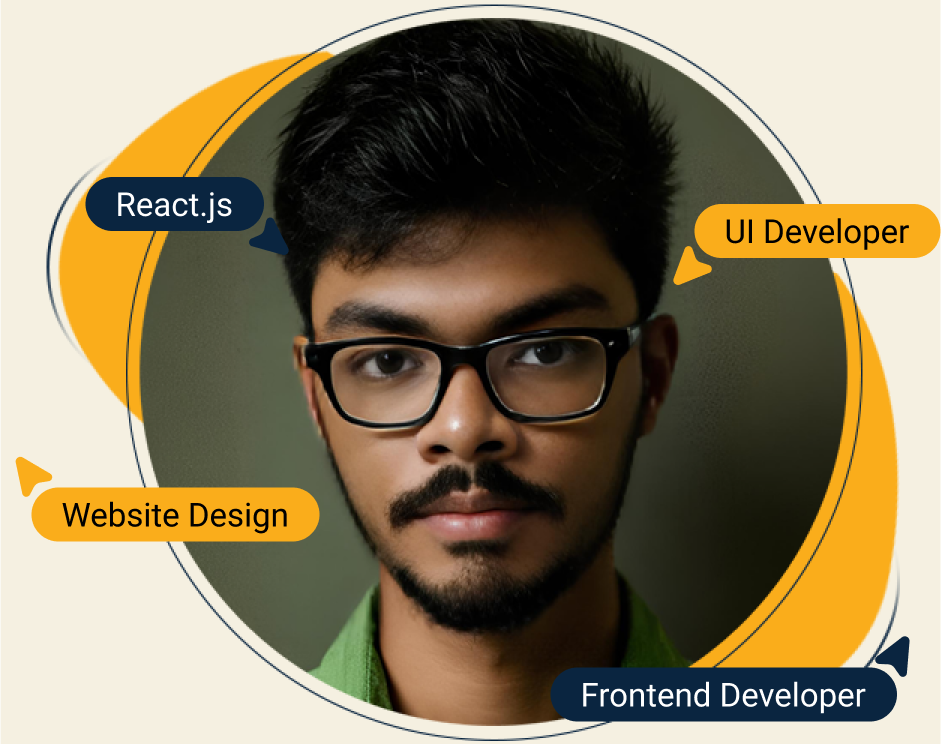
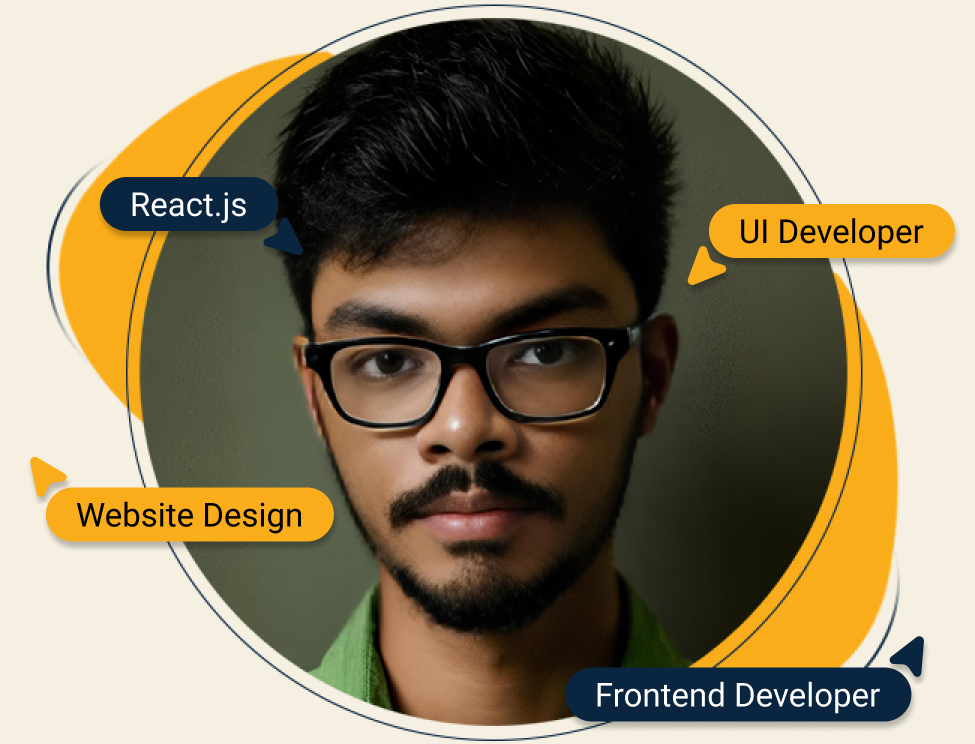
cta

Changed region(s): [[0.0, 0.0, 1.0, 1.0], [0.1233, 0.1237, 0.2157, 0.2164]]

diff --git a/src/components/Header.jsx b/src/components/Header.jsx
@@ -1,10 +1,12 @@
 import ProfileImage from '../assets/Jenson-Profile.jpg';
-import ResumePDF from '../assets/Jenson-2024-Resume.pdf'
+import ResumePDF from '../assets/Jenson-2024-Resume.pdf';
+import Navbar from './Navbar/Navbar';
 
 export default function Header() {
   return (
     <header className="portfolio-hero">
       <div className="container">
+        <Navbar />
         <div className="pf-head-grid">
           <div className="pf-head-cnt">
             <p className='greeting-msg'>Greetings </p>
@@ -12,12 +14,12 @@ export default function Header() {
             <h2>Web Designer & Front-end Developer</h2>
             <p className='hero-description'>I&rsquo;m an experienced Web Designer with <strong>5 years</strong> of expertise in designing, developing, and launching 100+ websites and landing pages, following the latest design trends to create impactful digital experiences.</p>
             <div className='hero-cta-grid'>
-                <a href={ResumePDF} target='_blank' className='view-resume'>View Resume</a>
-                <a href="#contact" className='view-resume ghost-cta'>Contact Now</a>
+                <a href={ResumePDF} target='_blank' className='view-resume'><span>Download CV</span></a>
+                <a href="#contact" className='ghost-cta'>Contact Now</a>
             </div>
           </div>
           <div className="pf-header-profile">
-            <img src={ProfileImage} alt="Profile Image" width='617' height='496' />
+            <img src={ProfileImage} alt="Profile Image" width='650' height='496' />
           </div>
         </div>
       </div>

diff --git a/src/index.css b/src/index.css
@@ -44,7 +44,7 @@ h2{
 }
 .pf-head-grid{
   display: grid;
-  grid-template-columns: 617px 1fr;
+  grid-template-columns: 650px 1fr;
   align-items: center;
   grid-gap: 20px;
 }
@@ -64,19 +64,46 @@ h2{
   grid-gap: 20px;
   grid-template-columns: repeat(2,auto);
 }
-.view-resume{
-  background-color: var(--primary-color);
+.view-resume {
+  background-color: var(--secondary-color);
   border-radius: 50px;
-  padding: 10px 30px;
+  padding: 12px 4px 14px 3px;
   color: #F5F0E1;
   font-size: 1.3rem;
-  display: inline-block;
-  border: 1px solid;
-  border-color: var(--primary-color);
+  display: block;
+  border: 0 solid;
+  border-color: var(--secondary-color);
+  position: relative;
+  line-height: 0;
+  box-shadow: 0 0 8px 2px rgb(0 0 0 / 20%);
+}
+.view-resume span {
+  background: var(--primary-color);
+  margin: 0;
+  border-radius: 50px;
+  padding: 6px 30px;
+}
+.view-resume::after{
+  content: url(./assets/arrow-icon.png);
+  background: #fff;
+  border-radius: 30px;
+  padding: 6px 7px;
+  margin-left: 7px;
 }
 .ghost-cta{
   background-color: transparent;
   color: var(--primary-color);
+  border-radius: 50px;
+  padding: 8px 30px;
+  font-size: 1.3rem;
+  display: inline-block;
+  border: 1px solid;
+  border-color: var(--primary-color);
+  font-weight: 600;
+  box-shadow: 0 0 8px 2px rgb(0 0 0 / 20%);
+}
+.hero-cta-grid{
+  margin-top: 40px;
 }
 
 

diff --git a/src/components/Navbar/Navbar.jsx b/src/components/Navbar/Navbar.jsx
@@ -1,0 +1,7 @@
+import "./Navbar.css"
+
+export default function Navbar(){
+    return <nav>
+       
+    </nav>
+}

diff --git a/src/components/About.jsx b/src/components/About.jsx
@@ -1,0 +1,3 @@
+export default function About(){
+    return 
+}
